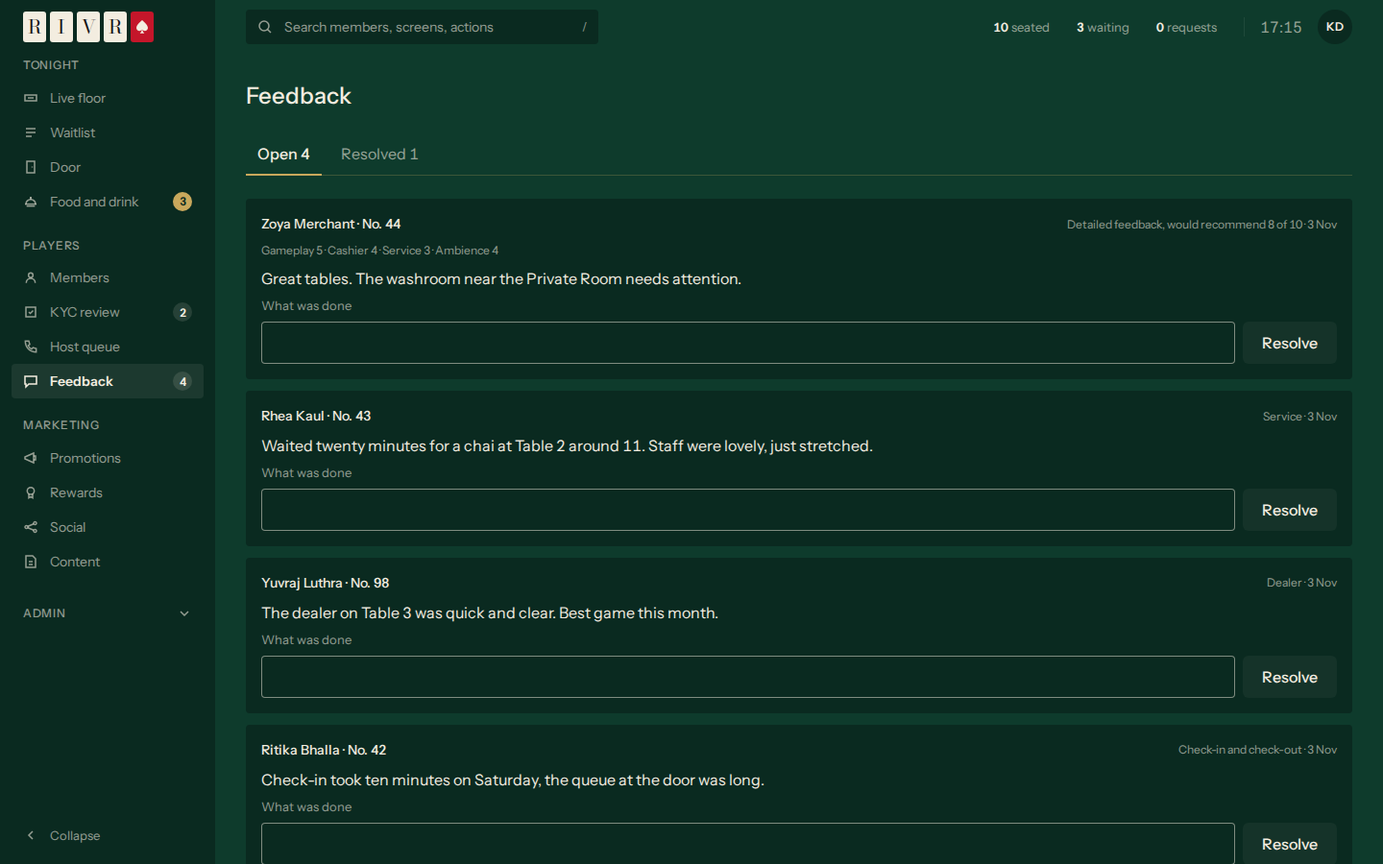
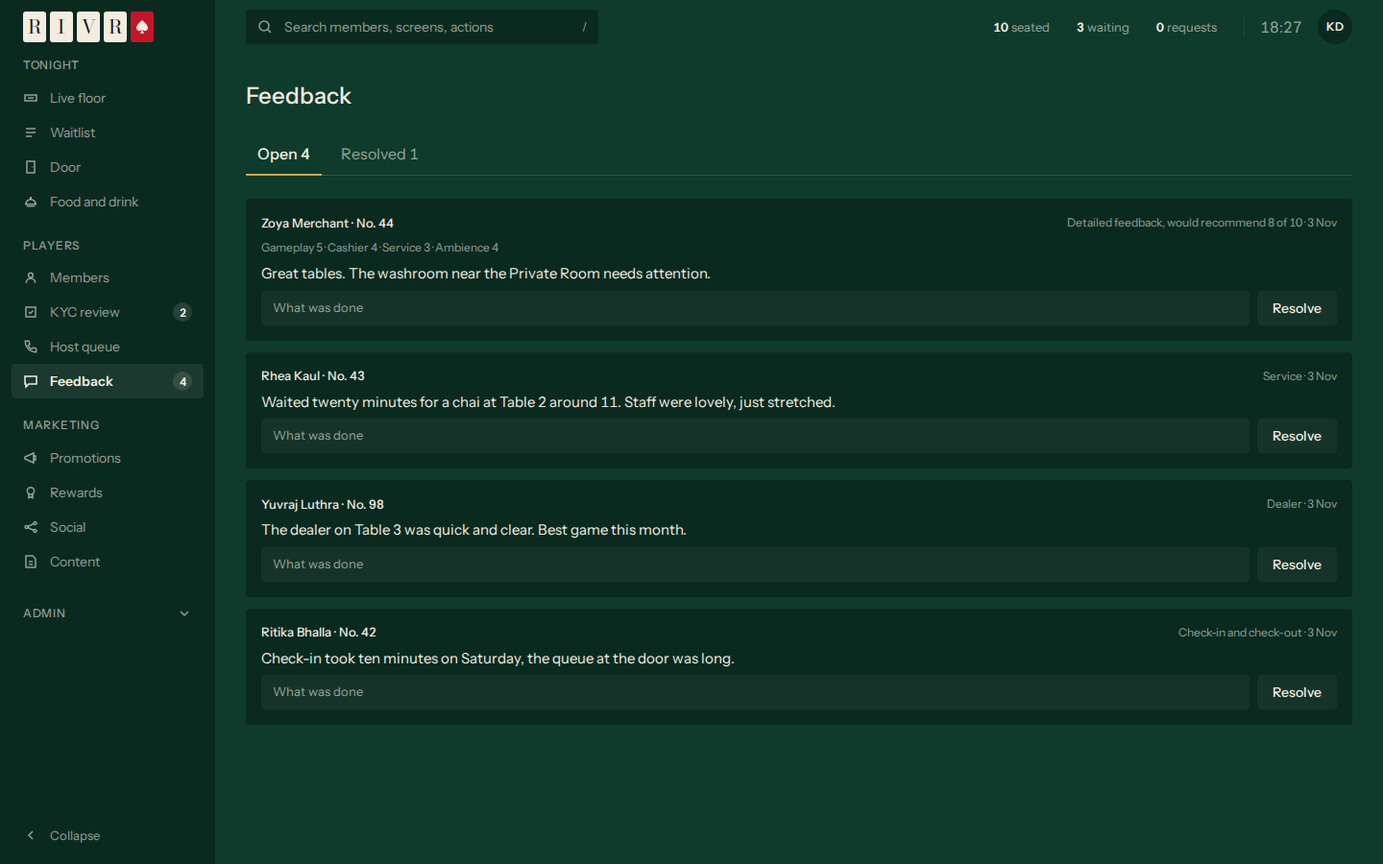
fix(ui): pick list marks the open row in cream; baselines for new stories
PickList's open row has a cream edge, as gold means it needs you
(decision 0429), and its group headings use the eyebrow text. Visual
baselines for PickList, ConfirmButton's subtle look and SplitView's even
and docked layouts. Feedback's note and the website's page search are
the console's filled field; Learn content with no sources says so with
one action.

diff --git a/packages/ui/src/PickList/PickList.tsx b/packages/ui/src/PickList/PickList.tsx
@@ -1,5 +1,6 @@
 import { useId, type ReactNode } from 'react';
 import { cx } from '../internal/classes.ts';
+import { Text } from '../Text/Text.tsx';
 
 /** One item to open: its title and, under it, one line. */
 export interface PickListItem {
@@ -31,7 +32,6 @@ export interface PickListProps {
   emptyText: string;
 }
 
-const HEADING = 'flex items-center justify-between gap-3 px-4 pt-3 pb-1 font-text text-12 leading-snug font-medium uppercase tracking-wide text-content-muted';
 
 function Item({ item, isCurrent, onPick }: { item: PickListItem; isCurrent: boolean; onPick: (id: string) => void }) {
   return (
@@ -41,7 +41,7 @@ function Item({ item, isCurrent, onPick }: { item: PickListItem; isCurrent: bool
           'flex min-h-touch w-full flex-col items-start justify-center gap-1 border-l-2 px-4 text-left transition-colors tablet:min-h-control',
           item.detail ? 'py-3' : 'py-2',
           'focus-visible:outline-2 focus-visible:-outline-offset-2 focus-visible:outline-focus',
-          isCurrent ? 'border-gold bg-selected' : 'border-transparent hover:bg-subtle',
+          isCurrent ? 'border-content bg-selected' : 'border-transparent hover:bg-subtle',
         )}>
         <span className="font-text text-14 leading-snug font-medium text-content">{item.title}</span>
         {item.detail ? <span className="font-text text-12 leading-snug text-content-muted">{item.detail}</span> : null}
@@ -55,9 +55,9 @@ function Group({ group, current, onPick }: { group: PickListGroup; current: stri
   return (
     <div>
       {group.label === undefined ? null : (
-        <div className={HEADING}>
-          <h2 id={headingId}>{group.label}</h2>
-          {group.count === undefined ? null : <span className="tabular-nums">{group.count}</span>}
+        <div className="flex items-center justify-between gap-3 px-4 pt-3 pb-1">
+          <h2 id={headingId}><Text as="span" variant="eyebrow" tone="muted">{group.label}</Text></h2>
+          {group.count === undefined ? null : <Text as="span" variant="eyebrow" tone="muted" isTabular>{group.count}</Text>}
         </div>
       )}
       <ul aria-labelledby={group.label === undefined ? undefined : headingId} className="flex flex-col">
@@ -70,7 +70,7 @@ function Group({ group, current, onPick }: { group: PickListGroup; current: stri
 /**
  * A queue to open items from, beside the item open (console v3: KYC review, Host queue, the website's pages): on a raised
  * panel, each group under its heading and count, each item a row of its title and one line; the one open on the chosen
- * fill with a gold edge. A search field, given, sits above.
+ * fill with a cream edge (gold is only for what needs someone, decision 0429). A search field, given, sits above.
  */
 export function PickList({ label, groups, current, onPick, search, emptyText }: PickListProps) {
   const isEmpty = groups.every((group) => group.items.length === 0);

diff --git a/apps/console/src/features/learn-sources/components/LearnSourcesScreen.tsx b/apps/console/src/features/learn-sources/components/LearnSourcesScreen.tsx
@@ -1,8 +1,37 @@
 import { useStaffVenue } from '@rivr/db';
+import { useLearnSources } from '@rivr/db/learnSources';
 import { t } from '@rivr/i18n';
 import { Screen, Stack } from '@rivr/ui';
+import { useState } from 'react';
 import { SourceTable } from './SourceTable.tsx';
 import { SourceUpload } from './SourceUpload.tsx';
+
+/**
+ * The venue's sources and adding one; with none yet, the screen's one line and its one action, which opens the adding
+ * (console v3). The upload is the screen's one primary.
+ */
+export function LearnSources({ venueId }: { venueId: string }) {
+  const sources = useLearnSources(venueId);
+  const [isAdding, setAdding] = useState(false);
+  const title = t('console.learnSources.title');
+  if (sources.data === undefined) {
+    return sources.isError
+      ? <Screen title={title} status="error" onRetry={() => void sources.refetch()} />
+      : <Screen title={title} status="loading" loadingLook="rows" />;
+  }
+  if (sources.data.length === 0 && !isAdding) {
+    return <Screen title={title} status="empty" emptyText={t('console.learnSources.none')}
+      emptyAction={{ label: t('console.learnSources.addTitle'), onClick: () => setAdding(true) }} />;
+  }
+  return (
+    <Screen title={title}>
+      <Stack gap={8}>
+        {sources.data.length === 0 ? null : <SourceTable rows={sources.data} />}
+        <SourceUpload venueId={venueId} />
+      </Stack>
+    </Screen>
+  );
+}
 
 /**
  * Learn content (#131; decision 0016), Content's second tab (console v3): the venue's licensed encodings and their
@@ -13,14 +42,8 @@ export function LearnSourcesScreen() {
   const staff = useStaffVenue();
   // The frame shows a screen only once the staff member's venue is known.
   if (staff.status !== 'ready') return null;
-  const title = t('console.learnSources.title');
-  if (!staff.venue.permissions.includes('learn.manage_sources')) return <Screen title={title} status="error" errorText={t('console.learnSources.notAllowed')} />;
-  return (
-    <Screen title={title}>
-      <Stack gap={8}>
-        <SourceTable venueId={staff.venue.venueId} />
-        <SourceUpload venueId={staff.venue.venueId} />
-      </Stack>
-    </Screen>
-  );
+  if (!staff.venue.permissions.includes('learn.manage_sources')) {
+    return <Screen title={t('console.learnSources.title')} status="error" errorText={t('console.learnSources.notAllowed')} />;
+  }
+  return <LearnSources venueId={staff.venue.venueId} />;
 }

diff --git a/apps/console/src/features/learn-sources/components/LearnSourcesScreen.test.tsx b/apps/console/src/features/learn-sources/components/LearnSourcesScreen.test.tsx
@@ -1,0 +1,32 @@
+import { createRivrClient, RivrDataProvider, SESSION_STORAGE_KEY } from '@rivr/db';
+import { QueryClient } from '@tanstack/react-query';
+import { cleanup, fireEvent, render, screen } from '@testing-library/react';
+import { afterEach, describe, expect, it, vi } from 'vitest';
+import { LearnSources } from './LearnSourcesScreen.tsx';
+
+afterEach(() => {
+  cleanup();
+  localStorage.clear();
+  vi.unstubAllGlobals();
+});
+
+describe('Learn content', () => {
+  it('says in one line there are no sources, with the one action that opens adding one', async () => {
+    localStorage.setItem(SESSION_STORAGE_KEY, JSON.stringify({
+      access_token: 'test', refresh_token: 'test', token_type: 'bearer', expires_in: 3600, expires_at: Math.floor(Date.now() / 1000) + 3600,
+      user: { id: '00000000-0000-4000-8000-000000000101', aud: 'authenticated', app_metadata: {}, user_metadata: {}, created_at: '2026-10-18T00:00:00Z' },
+    }));
+    vi.stubGlobal('fetch', async () => Response.json([]));
+    render(
+      <RivrDataProvider client={createRivrClient({ url: 'http://127.0.0.1:9', publishableKey: 'test' })}
+        queryClient={new QueryClient({ defaultOptions: { queries: { retry: false } } })}>
+        <LearnSources venueId="v1" />
+      </RivrDataProvider>,
+    );
+    expect(await screen.findByText('No licensed sources yet.', undefined, { timeout: 5000 })).toBeDefined();
+    expect(screen.queryByRole('table')).toBeNull();
+    fireEvent.click(screen.getByRole('button', { name: 'Add a source' }));
+    expect(screen.getByRole('heading', { name: 'Add a source' })).toBeDefined();
+    expect(screen.getByText('Choose encoding')).toBeDefined();
+  });
+});

diff --git a/apps/console/src/features/feedback/components/ResolveForm.tsx b/apps/console/src/features/feedback/components/ResolveForm.tsx
@@ -2,7 +2,7 @@ import { zodResolver } from '@hookform/resolvers/zod';
 import { feedbackResolveSchema } from '@rivr/contracts';
 import { useResolveFeedback, type FeedbackFailure, type FeedbackItem } from '@rivr/db';
 import { t } from '@rivr/i18n';
-import { Box, Button, ErrorMessage, Inline, Input, Stack } from '@rivr/ui';
+import { Button, ErrorMessage, Inline, Input, Stack } from '@rivr/ui';
 import { useState } from 'react';
 import { useForm } from 'react-hook-form';
 import type { z } from 'zod';
@@ -22,10 +22,10 @@ export function ResolveForm({ venueId, item }: { venueId: string; item: Feedback
   const field = form.register('resolution');
   return (
     <Stack gap={2}>
-      {/* Resolve beside the field, its foot on the field's (console v3); what is wrong goes under the row, so they stay level. */}
-      <Inline gap={2} align="end">
-        <Box grow><Input {...field} label={t('console.feedback.resolution')} autoComplete="off" maxLength={500} /></Box>
-        <Button variant="subtle" isLoading={resolve.isPending} aria-label={t('console.feedback.resolveName', { name: item.fullName })}
+      {/* Resolve beside the console's filled field, on its centre line (console v3); what is wrong goes under the row, so they stay level. */}
+      <Inline gap={2} align="center">
+        <Input {...field} variant="subtle" label={t('console.feedback.resolution')} autoComplete="off" maxLength={500} />
+        <Button variant="subtle" size="compact" isLoading={resolve.isPending} aria-label={t('console.feedback.resolveName', { name: item.fullName })}
           onClick={() => void submit()}>
           {t('console.feedback.resolve')}
         </Button>

diff --git a/apps/console/src/features/learn-sources/components/SourceTable.tsx b/apps/console/src/features/learn-sources/components/SourceTable.tsx
@@ -1,4 +1,4 @@
-import { useLearnSources, type LearnSource } from '@rivr/db/learnSources';
+import type { LearnSource } from '@rivr/db/learnSources';
 import { formatDate, formatIsoDay, t } from '@rivr/i18n';
 import { DataTable, type DataTableColumn } from '@rivr/ui';
 
@@ -17,10 +17,6 @@ function columns(): readonly DataTableColumn<LearnSource>[] {
 }
 
 /** The venue's sources with their licences: on until the last day, then off for everyone. */
-export function SourceTable({ venueId }: { venueId: string }) {
-  const sources = useLearnSources(venueId);
-  const base = { label: t('console.learnSources.table'), columns: columns(), rowKey: (row: LearnSource) => row.sourceKey };
-  if (sources.data === undefined && sources.isError) return <DataTable {...base} status="error" onRetry={() => void sources.refetch()} />;
-  if (sources.data === undefined) return <DataTable {...base} status="loading" />;
-  return <DataTable {...base} rows={sources.data} emptyText={t('console.learnSources.none')} />;
+export function SourceTable({ rows }: { rows: readonly LearnSource[] }) {
+  return <DataTable label={t('console.learnSources.table')} columns={columns()} rowKey={(row) => row.sourceKey} rows={rows} emptyText={t('console.learnSources.none')} />;
 }

diff --git a/apps/console/src/features/feedback/components/FeedbackCard.tsx b/apps/console/src/features/feedback/components/FeedbackCard.tsx
@@ -20,12 +20,12 @@ export function FeedbackCard({ venueId, item }: { venueId: string; item: Feedbac
     <Box as="article" surface="raised" radius="md" padding={4}>
       <Stack gap={2}>
         <Inline gap={3} justify="between" align="center" wrap>
-          <Text variant="small" weight="medium">{whoLine(item)}</Text>
+          <Text variant="secondary" weight="medium">{whoLine(item)}</Text>
           <Text variant="caption" tone="muted">{kindLine(item)}</Text>
         </Inline>
         {item.ratings === null ? null : <Text variant="caption" tone="muted">{ratingsLine(item.ratings)}</Text>}
-        {item.note === null ? null : <Text>{item.note}</Text>}
-        {resolved === null ? null : <Text variant="small" tone="muted">{resolved}</Text>}
+        {item.note === null ? null : <Text variant="row">{item.note}</Text>}
+        {resolved === null ? null : <Text variant="secondary" tone="muted">{resolved}</Text>}
         {item.isTicket && item.resolvedAt === null ? <ResolveForm venueId={venueId} item={item} /> : null}
       </Stack>
     </Box>

diff --git a/packages/ui/src/PickList/PickList.test.tsx b/packages/ui/src/PickList/PickList.test.tsx
@@ -18,10 +18,11 @@ describe('PickList', () => {
     expect(screen.getByText('2')).toBeInTheDocument();
   });
 
-  it('marks the item open as current, on the chosen fill', () => {
+  it('marks the item open as current, on the chosen fill with a cream edge, never gold (decision 0429)', () => {
     renderIn(<PickList label="Checks" groups={CHECKS} current="r2" onPick={vi.fn()} emptyText="Nothing to check." />);
     expect(screen.getByRole('button', { name: 'Naina Kapoor' })).toHaveAttribute('aria-current', 'true');
-    expect(screen.getByRole('button', { name: 'Naina Kapoor' })).toHaveClass('bg-selected');
+    expect(screen.getByRole('button', { name: 'Naina Kapoor' })).toHaveClass('bg-selected', 'border-content');
+    expect(screen.getByRole('button', { name: 'Naina Kapoor' })).not.toHaveClass('border-gold');
     expect(screen.getByRole('button', { name: /^Rohan Bhatia/ })).not.toHaveAttribute('aria-current');
   });
 

diff --git a/e2e/flows/learn-sources.spec.ts b/e2e/flows/learn-sources.spec.ts
@@ -19,6 +19,10 @@ test.describe('Learn sources', () => {
     await page.getByRole('link', { name: 'Learn content' }).click();
     await expect(page).toHaveURL(/\/content\?tab=learn$/);
     await expect(page.getByRole('heading', { name: 'Learn content', level: 1 })).toBeVisible();
+    // With no source yet, the screen's one action opens the adding (console v3); with one, the form is already there.
+    const add = page.getByRole('button', { name: 'Add a source' });
+    await expect(add.or(page.getByRole('heading', { name: 'Add a source' }))).toBeVisible();
+    if (await add.isVisible()) await add.click();
     const file = page.locator('input[type="file"]');
     await file.setInputFiles({ name: 'broken.json', mimeType: 'application/json', buffer: Buffer.from('{"not": "an encoding"}') });
     await expect(page.getByText('Refused by: validator.')).toBeVisible({ timeout: 20_000 });

diff --git a/apps/console/src/features/website/components/WebsiteScreen.tsx b/apps/console/src/features/website/components/WebsiteScreen.tsx
@@ -22,7 +22,7 @@ function Pages({ venueId, pages }: { venueId: string; pages: readonly EditorPage
     <SplitView layout="even" isChosen={chosen !== undefined} backLabel={t('console.website.back')} onBack={() => setChosenId(null)}
       list={<PickList label={t('console.website.list')} groups={groups} current={open?.pageId ?? null} onPick={setChosenId}
         emptyText={t('console.website.noMatch')}
-        search={<Input type="search" label={t('console.website.find')} value={query} autoComplete="off" onChange={(event) => setQuery(event.target.value)} />} />}
+        search={<Input type="search" variant="subtle" label={t('console.website.find')} value={query} autoComplete="off" onChange={(event) => setQuery(event.target.value)} />} />}
       detail={open === undefined ? null : (
         <Box surface="raised" radius="md" padding={5}>
           <Stack gap={6}>

diff --git a/apps/console/src/features/host-queue/components/HostItem.tsx b/apps/console/src/features/host-queue/components/HostItem.tsx
@@ -46,10 +46,10 @@ function Who({ item }: { item: HostQueueItem }) {
   return (
     <Stack gap={1}>
       <Heading level={2} variant="section">{item.fullName}</Heading>
-      <Text variant="small" tone="muted">
+      <Text variant="secondary" tone="muted">
         {t('console.hostQueue.lapse', { phone: formatMobile(item.phone), last: formatDate(new Date(item.lastVisitAt)), visits: String(item.visits) })}
       </Text>
-      {item.offer === null ? null : <Text variant="small">{t('console.hostQueue.offered', { offer: offerText(item.offer) })}</Text>}
+      {item.offer === null ? null : <Text variant="secondary">{t('console.hostQueue.offered', { offer: offerText(item.offer) })}</Text>}
     </Stack>
   );
 }

diff --git a/packages/ui/src/PickList/PickList.stories.tsx b/packages/ui/src/PickList/PickList.stories.tsx
@@ -23,7 +23,7 @@ export const Default: Story = {};
 export const WithSearch: Story = {
   args: {
     label: 'Pages', current: null, emptyText: 'No page matches.',
-    search: <Input type="search" label="Find a page" value="" onChange={() => undefined} />,
+    search: <Input type="search" variant="subtle" label="Find a page" value="" onChange={() => undefined} />,
     groups: [
       { label: 'Club', items: [{ id: 'about', title: 'About' }, { id: 'home', title: 'Home' }, { id: 'house-rules', title: 'House rules' }] },
       { label: 'Legal', items: [{ id: 'privacy', title: 'Privacy' }, { id: 'terms', title: 'Terms of use' }] },

diff --git a/packages/ui/README.md b/packages/ui/README.md
@@ -26,7 +26,7 @@ Every visible element in every RIVR app. Apps compose these components; they wri
 | Player redesign (decision 0320) | The four alert patterns: `Banner` (a line at the top of Tonight, `tone` `neutral` or `alert` (red, never dismissed), one `action`, `onDismiss`), `Toast` with `ToastProvider` and `useToast()` (confirms the member's own action above the tab bar for 3.2 s, with Undo when `onUndo` is given), and `ErrorMessage` with `look="dot"` for a field error. `Sheet` (a bottom sheet over a scrim: grabber, `eyebrow`, `title` in the display face or `titleLook="plain"`, an `aside`; focus trapped, Escape and the scrim close it), `PickerSheet` (a 60 px field that opens a sheet of options, `mode` `one` closing as one is picked, `many` with Done), `Input` `variant="inset"` (the label inside a 60 px box), `CodeInput` `size="tall"`, `ChoiceChips` `look` `pill` or `tile`, `QuantityStepper` `look="round"`, `Button` `variant="outline"`, `size="tall"` (54 px), `shape="pill"`, `isPressed` and `aside` (a second part at the right end, the label at the left, as Send to the bar … 2 items). Tonight's parts: `SeatMap` (the table from above, seats at 270° + n·36°, open ones gold; one image), `ProgressRing` (the 236 px call-time ring), `ProgressBar` (a hold draining, or points to the next reward), `Stepper` (an order's four steps), `RoundAction` (a 52 px seat action, dimmed while pending), `Figure` (a formatted figure in the display face, `role="timer"` for a clock), `OfferCarousel` (offer cards that scroll sideways and snap; a card opens in the app with `onOpen`, or is a link with `href`, #776), `TableListRow` (a table with a dot a seat), `DetailRow` (a ruled label and value, or a row that opens something), `StatRow` (stats side by side), `AvatarLink` (the member's initial, opening Profile), `PeekBar` (a sheet's top left above the tab bar), `Skeleton` (a first load as faint blocks), and `haptic()` (a 12 ms buzz where the phone can). `Heading` `variant="serif"` with `serifSize`, and `Screen` `titleLook="serif"`, `isTitleHidden` and `loadingLook="skeleton"`. The rest of the app: `SelfieCamera` (the live camera with its oval and guidance, then Use photo or Retake; a blocked camera says what to do), `DoneMark` (a gold circle with a tick above a finished step's title), `SheetPanel` (a sheet lying open in the page, as Tonight's tables), `SuggestionCard` (a suggestion at the top of a list, as "Your usual", the whole card a button), `ProfileMark` (the member's photo or initial in a gold-edged circle, at the head of Profile), `ChoiceChips` `look="tabs"` (categories as underlined tabs), `Figure` `size="numeral"` (a house rule's number), `Box` `radius="card"` and `MembershipCard` `look="redesign"`. |
 | Tablet | `QrScanView` (the door kiosk's scanner: the camera's picture, what to do, what the last scan did, and a focused field a card scanner types into; decision 0164) |
 | Shells | `PlayerShell` (a phone's full width, 390 px from 768 px up; the screen heads itself, and on a tab screen the member's initial from `avatar` sits at the end of its header row: `Screen`'s heading row, a 44 px band, or `PlayerAvatar` in a header of the screen's own, decision 0380; `PlayerDock` keeps a screen's part above the tab bar, which `isTabBarHidden` hides on a pushed screen; `isFullBleed` leaves the sides to the screen, besides its heading and its loading, empty and error states), `ConsoleShell` (the console's frame, console v3, decision 0431: from 768 px a rail of 224 px with labels or 64 px of icons, folding to icons on its own below 1200 px and keeping the staff member's own choice on the device; a header with `search`, from 768 px `pulse` and `clock`, and `account`; below 768 px the screen's name in the header and a tab bar of the app's `tabs` and More, which opens every screen; `banner` across the top above everything; `isFullBleed` leaves a screen with a docked panel its own padding), `TabletShell` (1180 × 820; each shell starts with Skip to content, seen only with the focus, which takes it to the screen, F5-03), `DisplayShell` (1920 × 1080 stage scaled to the screen), `WebShell` (its header stays at the top on a wide screen and carries one outlined action, its footer on green-black; on a phone Menu beside the wordmark opens its links in a list under the header, without JavaScript, led by the member app, which the top bar carries from a tablet up, and ended by the action, which has no room beside them, W-03) |
-| Console v3 (decisions 0428 to 0431) | `PracticeBanner` (the practice venue's gold stripes across the top of the console with its line and `action`, Back to the club; decision 0444), `ShortcutProvider`, `useShortcut` and `useShortcutList` (the keys a screen offers, decision 0445: `useShortcut({ key, label, onPress, isEnabled })` does its job unless the focus is in a field or a dialog or a modifier is held, and gives back `{ key, hint }` for `Button`'s `shortcut`, which puts "Seat a player (S)" in its tooltip and the key in `aria-keyshortcuts`; the list is sorted by key), `DataTableDensityProvider` (the staff member's own density for every `DataTable` inside that sets none, decision 0442), `AccountMenu` (the staff member's menu at the header's end: a round button with their initials opens a raised panel with `name`, `detail` (role and venue), their settings as `children` (`AccountMenuRow` puts a label and its control on one line), the `shortcuts` that work, and `signOut`; Escape or a click elsewhere closes it), `HeaderPulse` (the night's counts in the header, "23 seated · 9 waiting · 6 requests", each a link to its screen; a count with `needsYou` has a gold dot while above 0), `CommandPalette` (search over the screen: `/` outside a field or Ctrl or Cmd with K opens it; the app's `groups` (Members, Actions, Screens) for its `query`; arrow keys and Enter choose, Escape closes; `status` `loading` or `error`) and `SearchTrigger` (the header's search: a field-like button from 768 px, a search button below), `TableTile` (a table on the live floor: name, stake, ⋯ for its settings, a bar of its `seats` (`open`, `seated`, `needsYou` in gold), "N need you", a gold inner ring while any does; a press shows its seats, given as `SeatRow`s; `isClosed` with its `openAction`), `SeatRow` (a seat: its number, who sits there and their call time, or a `request` with a gold dot; one button; 42 px or 34 px `compact` at a desk), `RequestItem` (a request: `kind`, `age` in the danger colour and read as late with `isLate`, `title` (a button with `onTitle`), `detail`, a cream `primary` and a worded `secondary`; `isNew` fades a gold tint over 2.5 s), `Segmented` (one choice of two to four, such as Summary or Seats: a radio group on a faint track, arrow keys choosing as they move; `size` `compact` 36 px or `small` 32 px at a desk, 44 px below 1180 px), `DotStatus` (a status as a 6 px dot and its words, never colour alone: `needsYou` gold, `active` cream, `inactive` faint, `danger` red; `title` the full wording), `OverflowMenu` (a row's or tile's further actions behind ⋯ named by `label`: a menu on a raised panel, complete from the keyboard, `danger` items in red, `align` `start` or `end`), `PickList` (a queue to open items from, beside the item open: KYC review, Host queue, the website's pages; on a raised panel, groups under a heading and count, each item a button of its title and one muted line, the one open `aria-current` on the chosen fill with a gold edge; a `search` slot above; one line when empty), `BulkBar` (the cream bar at the top of a list while rows are ticked: "N selected" said politely, its `actions` with one `isMain`, and Clear; nothing shows at 0). The console's forms of existing parts: `ConfirmButton` `variant="subtle"` and a `size` for both presses (console v3); `Button` `variant` `subtle` (a faint cream fill, in place of the outlined `secondary`) and `strong` (a cream fill, a list item's main action) and `size` `compact` (36 px at a desk) and `small` (32 px), both 44 px below 1180 px; `ChoiceChips` `look="subtle"` and a `count` on any chip ("Pending, 3"); `Sheet` `place="console"` (a 440 px panel down the right from 768 px, from the foot below; `subtitle`, and a `footer` that stays); `ToastProvider` `place="console"` (centred at the foot, above the tab bar below 768 px; its status region there all along); `Skeleton` `look` `rows` or `tiles`, and `Screen` `loadingLook` the same; `Screen`'s `emptyAction` (an empty state's one thing to do); `DataTable` `selection` (ticks, "Select all" on the rows as shown), `density` (42 px or 34 px rows from 1180 px), `narrowLayout="scroll"` (lines that scroll sideways below 768 px, the ticks and title held), a row opened from a click anywhere on it, and its header held at the top. |
+| Console v3 (decisions 0428 to 0431) | `PracticeBanner` (the practice venue's gold stripes across the top of the console with its line and `action`, Back to the club; decision 0444), `ShortcutProvider`, `useShortcut` and `useShortcutList` (the keys a screen offers, decision 0445: `useShortcut({ key, label, onPress, isEnabled })` does its job unless the focus is in a field or a dialog or a modifier is held, and gives back `{ key, hint }` for `Button`'s `shortcut`, which puts "Seat a player (S)" in its tooltip and the key in `aria-keyshortcuts`; the list is sorted by key), `DataTableDensityProvider` (the staff member's own density for every `DataTable` inside that sets none, decision 0442), `AccountMenu` (the staff member's menu at the header's end: a round button with their initials opens a raised panel with `name`, `detail` (role and venue), their settings as `children` (`AccountMenuRow` puts a label and its control on one line), the `shortcuts` that work, and `signOut`; Escape or a click elsewhere closes it), `HeaderPulse` (the night's counts in the header, "23 seated · 9 waiting · 6 requests", each a link to its screen; a count with `needsYou` has a gold dot while above 0), `CommandPalette` (search over the screen: `/` outside a field or Ctrl or Cmd with K opens it; the app's `groups` (Members, Actions, Screens) for its `query`; arrow keys and Enter choose, Escape closes; `status` `loading` or `error`) and `SearchTrigger` (the header's search: a field-like button from 768 px, a search button below), `TableTile` (a table on the live floor: name, stake, ⋯ for its settings, a bar of its `seats` (`open`, `seated`, `needsYou` in gold), "N need you", a gold inner ring while any does; a press shows its seats, given as `SeatRow`s; `isClosed` with its `openAction`), `SeatRow` (a seat: its number, who sits there and their call time, or a `request` with a gold dot; one button; 42 px or 34 px `compact` at a desk), `RequestItem` (a request: `kind`, `age` in the danger colour and read as late with `isLate`, `title` (a button with `onTitle`), `detail`, a cream `primary` and a worded `secondary`; `isNew` fades a gold tint over 2.5 s), `Segmented` (one choice of two to four, such as Summary or Seats: a radio group on a faint track, arrow keys choosing as they move; `size` `compact` 36 px or `small` 32 px at a desk, 44 px below 1180 px), `DotStatus` (a status as a 6 px dot and its words, never colour alone: `needsYou` gold, `active` cream, `inactive` faint, `danger` red; `title` the full wording), `OverflowMenu` (a row's or tile's further actions behind ⋯ named by `label`: a menu on a raised panel, complete from the keyboard, `danger` items in red, `align` `start` or `end`), `PickList` (a queue to open items from, beside the item open: KYC review, Host queue, the website's pages; on a raised panel, groups under a heading and count, each item a button of its title and one muted line, the one open `aria-current` on the chosen fill with a cream edge, never gold (decision 0429); a `search` slot above; one line when empty), `BulkBar` (the cream bar at the top of a list while rows are ticked: "N selected" said politely, its `actions` with one `isMain`, and Clear; nothing shows at 0). The console's forms of existing parts: `ConfirmButton` `variant="subtle"` and a `size` for both presses (console v3); `Button` `variant` `subtle` (a faint cream fill, in place of the outlined `secondary`) and `strong` (a cream fill, a list item's main action) and `size` `compact` (36 px at a desk) and `small` (32 px), both 44 px below 1180 px; `ChoiceChips` `look="subtle"` and a `count` on any chip ("Pending, 3"); `Sheet` `place="console"` (a 440 px panel down the right from 768 px, from the foot below; `subtitle`, and a `footer` that stays); `ToastProvider` `place="console"` (centred at the foot, above the tab bar below 768 px; its status region there all along); `Skeleton` `look` `rows` or `tiles`, and `Screen` `loadingLook` the same; `Screen`'s `emptyAction` (an empty state's one thing to do); `DataTable` `selection` (ticks, "Select all" on the rows as shown), `density` (42 px or 34 px rows from 1180 px), `narrowLayout="scroll"` (lines that scroll sideways below 768 px, the ticks and title held), a row opened from a click anywhere on it, and its header held at the top. |
 | Console v3 Waitlist (decision 0435) | `WaitlistRow` (a place on a table's list: its `tick` for the bulk bar, `position`, `name` and `meta`, `isHeld` muting the name, one `action` (Seat) read with the name, and a ⋯ `menu`; 44 px below 1180 px, 42 or 34 px at a desk by `density`), `JoinRequestRow` (a member asking from the app to join a list: a gold dot, the name and `note`, a cream `approve` and a worded `decline`, each read with the name, on a faint gold band). The console's forms of existing parts: `Input` `variant="subtle"` (a filled one-line field beside its button, its label read out and shown inside until something is typed), `Grid` `columns="cards"` (one card a row on a phone, two from 768 px, three from 1180 px, each its own height), `Heading` `variant="card"` (a card's or tile's name, 15 px semibold) and `Text` `variant` `row` (15 px) and `secondary` (13 px). |
 
 `@rivr/ui/styles.css` is the compiled stylesheet: preflight, token custom properties, the utilities the components use, and the webfonts (`docs/decisions/0005`, `0011`). Each app imports it once.
